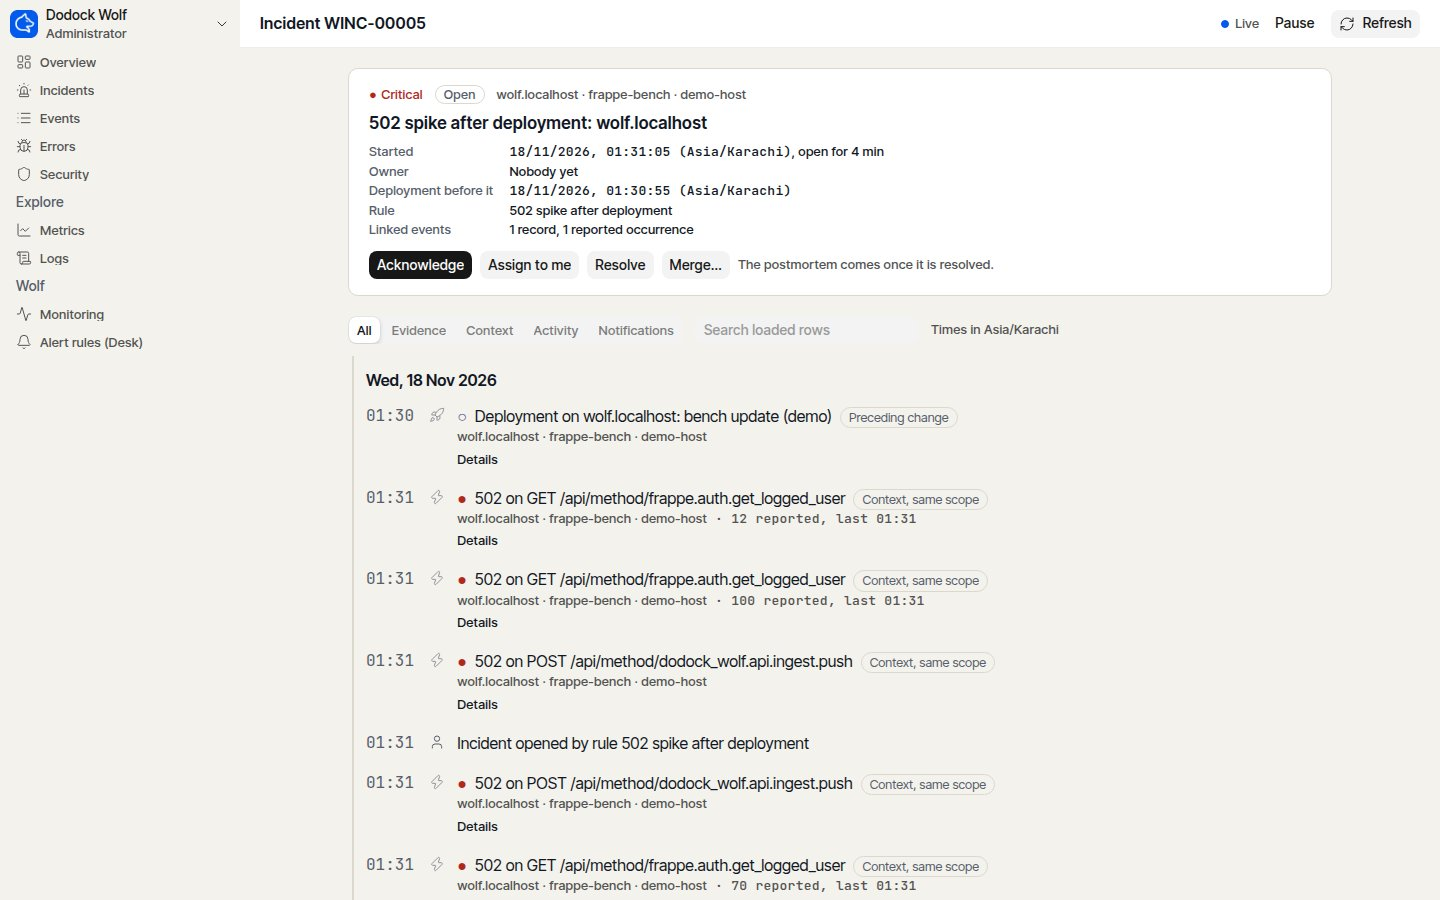
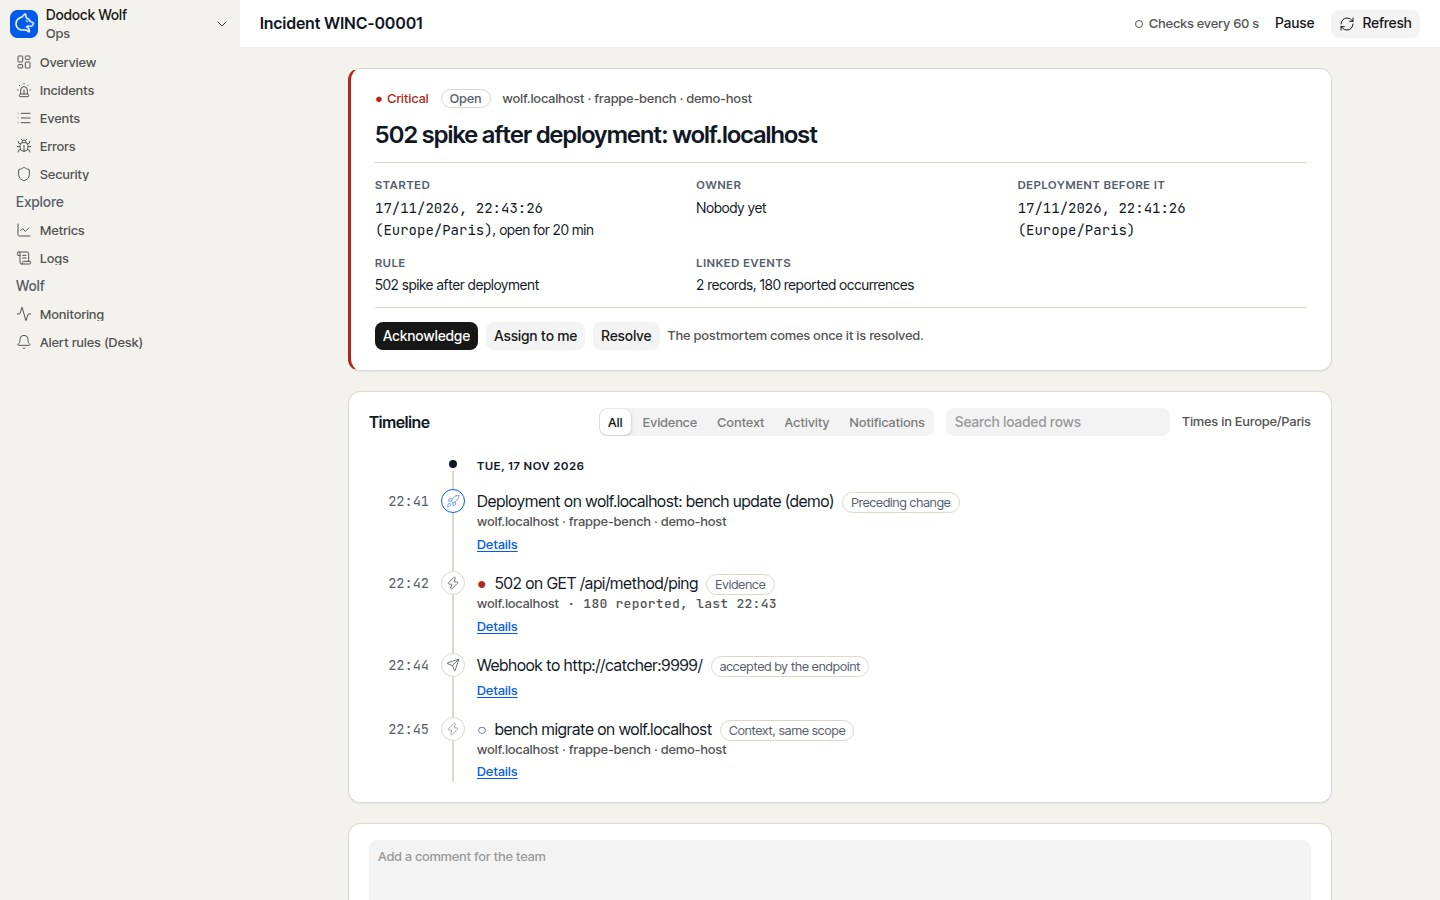
Screenshots of the redesigned Wolf UI, from a script
docs/screenshots is retaken from the production build with the Wolf API
answered in the page (frontend/scripts/screenshots.mjs), following the
demo scenario: one deployment, 180 responses 502, a job failing at night.
The numbers are written in the script, not measured on a bench, and the
README says so; the views say "Checks every 60 s" instead of "Live".

The agents table of Monitoring takes the shared table style.

Co-authored with AI

diff --git a/frontend/src/components/dash/MonitoringPanel.vue b/frontend/src/components/dash/MonitoringPanel.vue
@@ -27,7 +27,7 @@ const slowTick = computed(() => tickSeconds.value > 60)
 
 <template>
   <section class="wolf-card space-y-3" aria-label="Monitoring">
-    <h2 class="text-base font-semibold text-ink-gray-9">Is Wolf working</h2>
+    <h2 class="wolf-h2">Is Wolf working</h2>
     <dl class="wolf-facts text-sm">
       <dt>Alert rules</dt>
       <dd v-if="!health">Unknown: the site could not compute its health.</dd>
@@ -69,13 +69,14 @@ const slowTick = computed(() => tickSeconds.value > 60)
         <dd>satellite of {{ monitoring.mode.central_url }}; {{ monitoring.mode.pending }} items waiting to forward</dd>
       </template>
     </dl>
-    <table v-if="!compact && monitoring.agents.length" class="w-full text-left text-sm">
-      <thead class="text-ink-gray-6">
-        <tr><th class="py-1 font-normal">Host or site</th><th class="font-normal">Kind</th><th class="font-normal">State</th><th class="font-normal">Last seen</th><th class="font-normal">Clock skew</th><th class="font-normal">Version</th></tr>
+    <div v-if="!compact && monitoring.agents.length" class="wolf-tablewell">
+    <table class="wolf-table">
+      <thead>
+        <tr><th>Host or site</th><th>Kind</th><th>State</th><th>Last seen</th><th>Clock skew</th><th>Version</th></tr>
       </thead>
       <tbody>
-        <tr v-for="a in monitoring.agents" :key="a.name" class="border-t border-[var(--wolf-line)]">
-          <td class="py-1">{{ a.hostname }}</td>
+        <tr v-for="a in monitoring.agents" :key="a.name">
+          <td class="font-medium">{{ a.hostname }}</td>
           <td>{{ a.kind }}</td>
           <td>{{ STATE[a.state] }}</td>
           <td class="wolf-data">{{ a.last_seen ? `${ago(a.last_seen)} ago` : '' }}</td>
@@ -84,6 +85,7 @@ const slowTick = computed(() => tickSeconds.value > 60)
         </tr>
       </tbody>
     </table>
+    </div>
     <p class="text-sm text-ink-gray-6">{{ monitoring.note }}</p>
   </section>
 </template>

diff --git a/docs/screenshots/README.md b/docs/screenshots/README.md
@@ -1,21 +1,27 @@
 # Wolf UI screenshots
 
-Taken on 2026-11-17 on the demo bench ([`dev/demo`](../../dev/demo/README.md): the Dokos image,
-MariaDB 10.6, Frappe's socket.io server behind nginx), after `scenario.py`, with the app named
-Dodock Wolf (`dodock_wolf`). The data is the
-scenario's, not a production site: one deployment, 60 s of backend downtime (180 responses 502),
-and a scheduled job failing at night. Chromium at 1440 × 900, light and dark themes as the system
-asks; times are the site's (Asia/Karachi, the night zone the scenario picked).
+Taken on 2026-11-17 from the production build of the Wolf UI, with no bench behind it:
+`frontend/scripts/screenshots.mjs` serves the build as the browser tests do and answers the
+Wolf API in the page. The data follows the demo scenario
+([`dev/demo`](../../dev/demo/README.md)): one deployment, 60 s of backend downtime (180
+responses 502), and a scheduled job failing at night. The numbers are written in the script,
+not measured on a site: the pictures show the views, not a bench. Chromium at 1440 × 900,
+light and dark themes as the system asks.
+
+```bash
+cd frontend
+yarn build && node e2e/server.mjs &
+node scripts/screenshots.mjs          # or one view: node scripts/screenshots.mjs security
+```
 
 | View | Light | Dark |
 |---|---|---|
 | Overview, last hour: exact counts, the 502 window after the deployment | [light](overview-light.jpg) | [dark](overview-dark.jpg) |
 | Incident "502 spike after deployment", open: the preceding change, evidence and context apart | [light](incident-light.jpg) | [dark](incident-dark.jpg) |
-| Incident "Nightly cron failure", owner set, acknowledged, commented and resolved through the Wolf UI's own calls (`incident_view.act`, `incident.add_comment`) | [light](incident-resolved-light.jpg) | [dark](incident-resolved-dark.jpg) |
+| Incident "Nightly cron failure", owner set, acknowledged, commented and resolved | [light](incident-resolved-light.jpg) | [dark](incident-resolved-dark.jpg) |
 | Metrics: `http_502` summed per minute | [light](metrics-light.jpg) | [dark](metrics-dark.jpg) |
 | Monitoring: rules, scheduler pace, queue, rollups, agent | [light](monitoring-light.jpg) | [dark](monitoring-dark.jpg) |
-| Security: score with unknown checks shown as unknown, journal anchor | [light](security-light.jpg) | [dark](security-dark.jpg) |
+| Security: the score and the weight of every check, unknown checks shown as unknown, the journal verified | [light](security-light.jpg) | [dark](security-dark.jpg) |
 
-The views that update live (overview, incidents, incident, events, dashboards) said **Live**: their
-socket was accepted by Frappe's socket.io server, and a change made on the bench reached the open
-incident page in about a second. Metrics, Monitoring and Security refresh on demand.
+With no socket.io server behind the build, the views that update live say **Checks every
+60 s**. On a bench whose socket.io server accepts them, they say **Live**.
